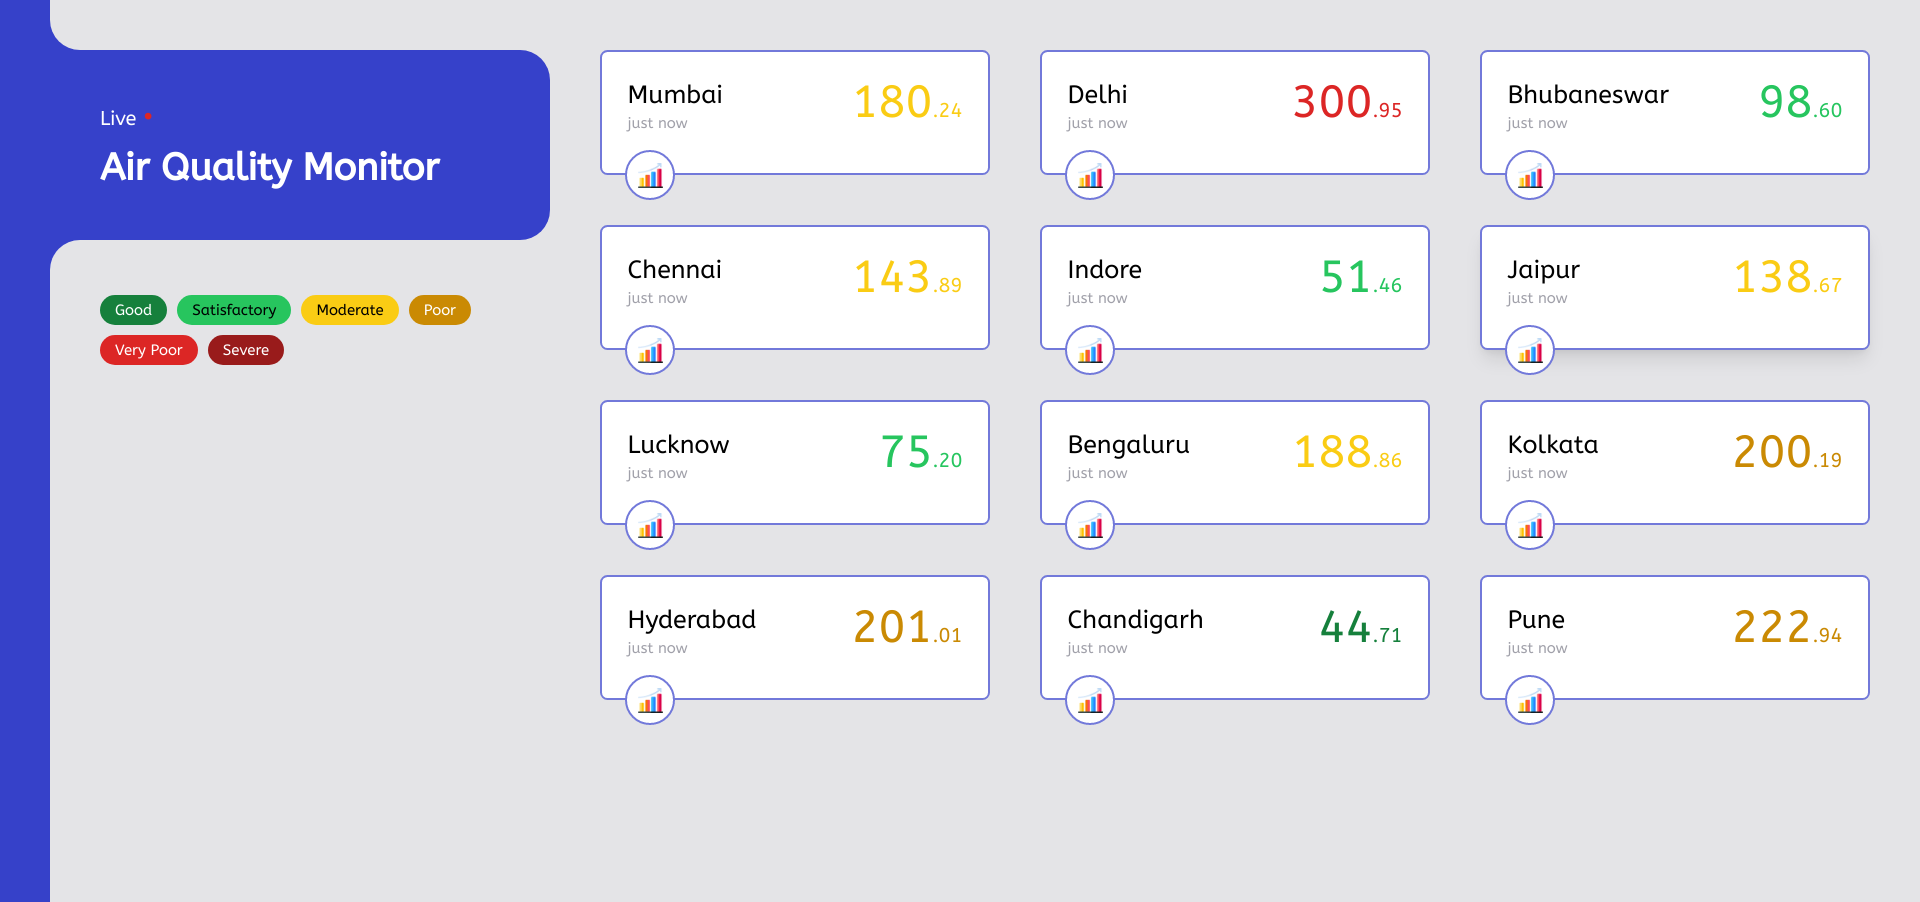
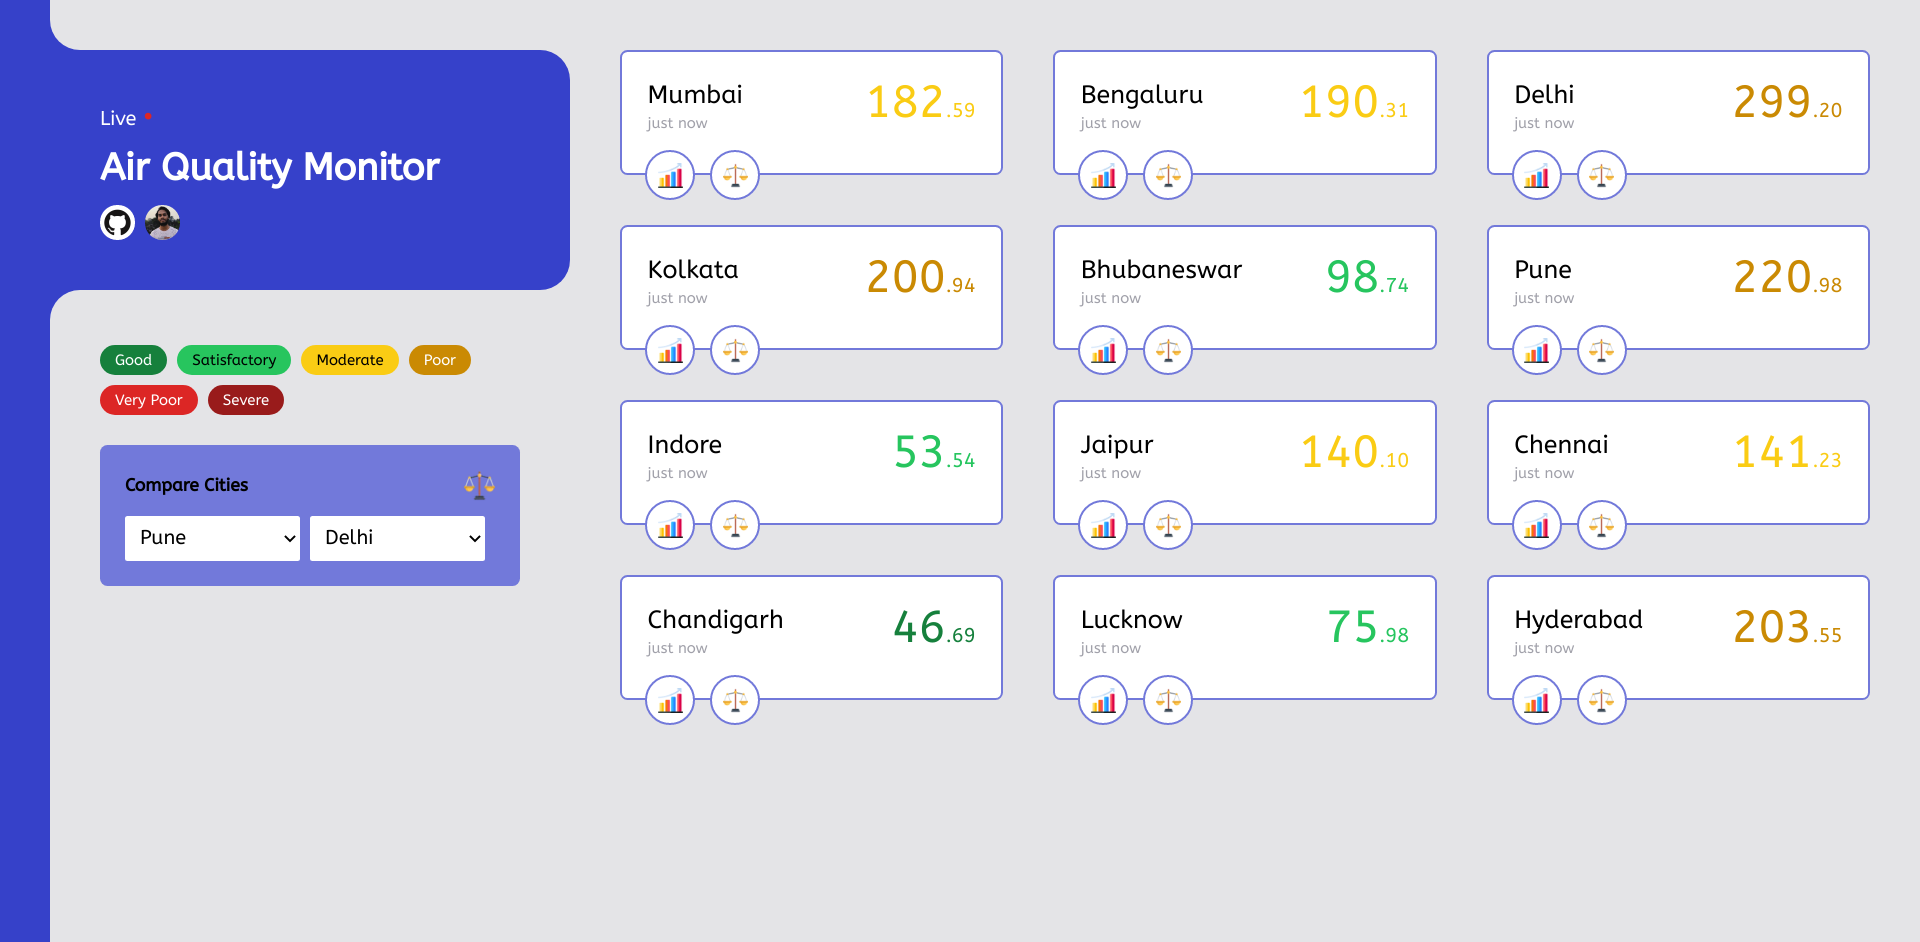
update sample images

diff --git a/README.md b/README.md
@@ -19,6 +19,10 @@ The below images are linked to full size images :)
   <img align="center" src="./samples/modal.png" width="45%" />
 </a>
 
+<a href="./samples/compare.png">
+  <img align="center" src="./samples/compare.png" width="45%" />
+</a>
+
 ## Technologies Used
 **Built with**
 - ReactJS + NextJs
